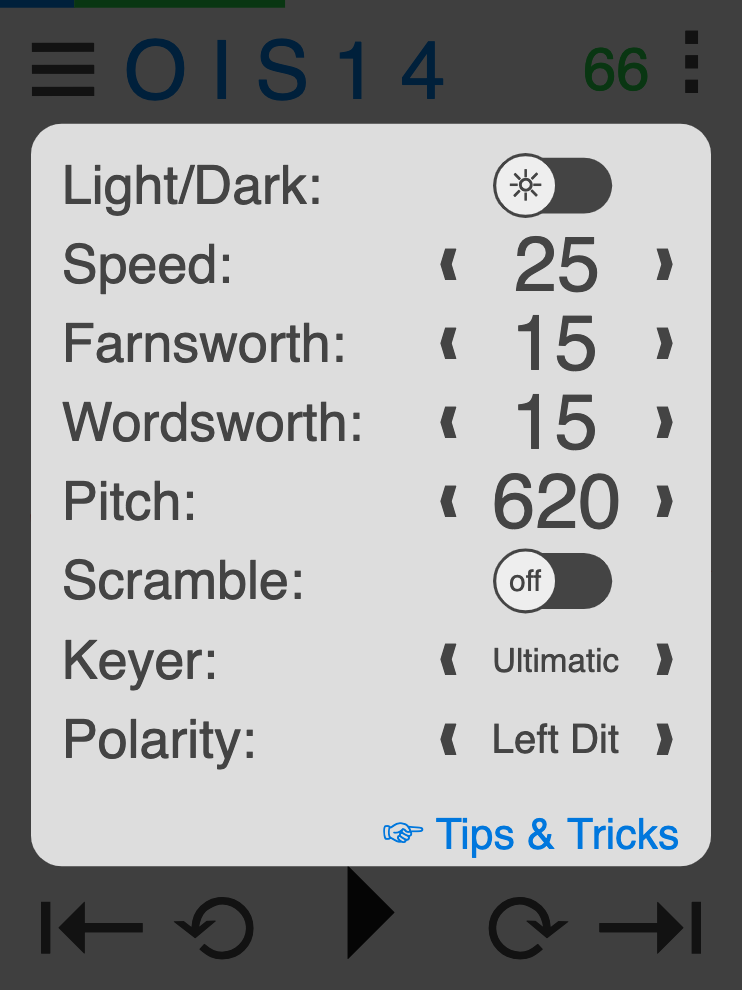
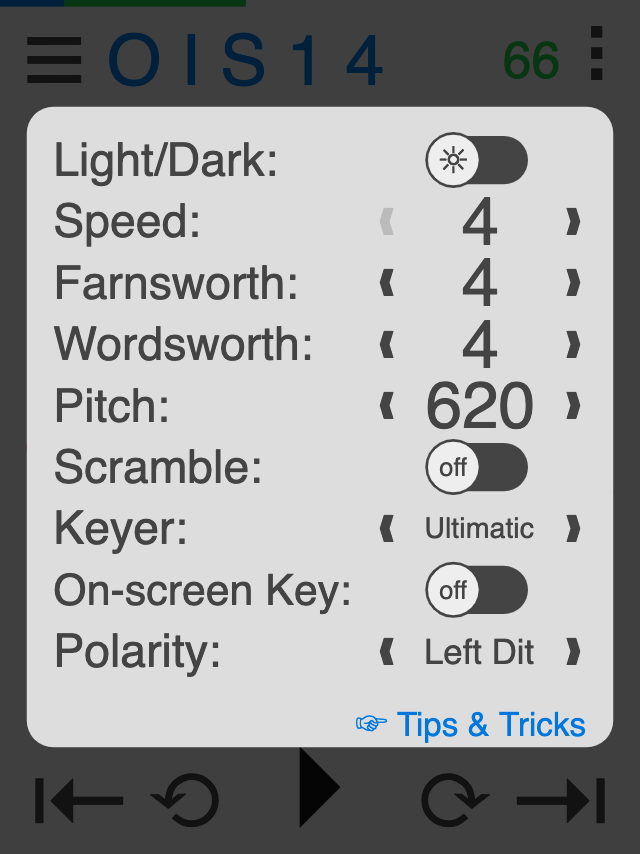
On-screen paddles

diff --git a/tx/index.html b/tx/index.html
@@ -728,10 +728,18 @@
                 localStorage.setItem('tx_polarity', polarity);
             }
 
-
             function getPolarity() {
                 return localStorage.getItem('tx_polarity') || 'ditdah';
             }
+
+            function setOnScreenKey(screenkey) {
+                localStorage.setItem('tx_screenkey', screenkey);
+            }
+
+            function getOnScreenKey() {
+                return getBoolSetting('tx_screenkey', false);
+            }
+
 
             function resizeCanvas() {
                 var ratio = devicePixelRatio;
@@ -840,12 +848,15 @@
                     w - padding - buttonSize,
                     padding, buttonSize, buttonSize,
                     'right');
+
+                var screenkey = getOnScreenKey();
+                var keyHeight = screenkey ? buttonSize * 4 : 0;
                 drawButton(
                     'prevLesson',
                     '⇤',
                     lessonNum > 0 ? subduedButtonColor : disabledButtonColor,
                     padding * 1 + buttonWidth * 0,
-                    h - padding - buttonSize,
+                    h - padding - buttonSize - keyHeight,
                     buttonWidth, buttonSize,
                     'left');
                 drawButton(
@@ -853,7 +864,7 @@
                     '⟲',
                     phraseNum > 0 ? subduedButtonColor : disabledButtonColor,
                     padding * 2 + buttonWidth * 1,
-                    h - padding - buttonSize,
+                    h - padding - buttonSize - keyHeight,
                     buttonWidth,
                     buttonSize,
                     'center');
@@ -862,7 +873,7 @@
                     '⟳',
                     phraseNum < content.lessons[lessonNum].phrases.length - 1 ? subduedButtonColor : disabledButtonColor,
                     padding * 4 + buttonWidth * 2 + buttonWidth * largeButton,
-                    h - padding - buttonSize,
+                    h - padding - buttonSize - keyHeight,
                     buttonWidth,
                     buttonSize,
                     'center');
@@ -871,7 +882,7 @@
                     '⇥',
                     lessonNum < content.lessons.length - 1 ? subduedButtonColor : disabledButtonColor,
                     padding * 5 + buttonWidth * 3 + buttonWidth * largeButton,
-                    h - padding - buttonSize,
+                    h - padding - buttonSize - keyHeight,
                     buttonWidth,
                     buttonSize,
                     'right');
@@ -881,7 +892,7 @@
                         keyedCharacter,
                         ui.keyingComplete ? (keyedCharacterError ? phraseTextColor : foregroundColor) : keyedCharacterColor,
                         padding * 2 + buttonWidth * 2,
-                        h - padding - buttonSize * largeButton,
+                        h - padding - buttonSize * largeButton - keyHeight,
                         buttonWidth * largeButton + padding * 2,
                         buttonSize * largeButton,
                         'center',
@@ -893,7 +904,7 @@
                         ui.playing ? 'II' : '▸',
                         foregroundColor,
                         padding * 3 + buttonWidth * 2,
-                        h - padding - buttonSize * largeButton,
+                        h - padding - buttonSize * largeButton - keyHeight,
                         buttonWidth * largeButton,
                         buttonSize * largeButton,
                         'center');
@@ -940,7 +951,7 @@
                 var phraseX = padding;
                 var phraseY = buttonSize + padding * 2 + progressHeight;
                 var phraseWidth = w - padding * 2;
-                var phraseHeight = h - padding * 4 - progressHeight - buttonSize - buttonSize * largeButton;
+                var phraseHeight = h - padding * 4 - progressHeight - buttonSize - buttonSize * largeButton - keyHeight;
                 var phraseIndex = randomPhrase(phraseNum, content.lessons[lessonNum].phrases.length);
                 var phrase = convertPhrase(content.lessons[lessonNum].phrases[phraseIndex]);
                 if (ui.keying) phrase = phrase.replace(/\ /g, '⎵');
@@ -979,10 +990,35 @@
                     top: phraseY - padding,
                     right: phraseWidth + padding,
                     bottom: phraseHeight + padding })
+                if (screenkey) {
+                    function drawPaddle(name, left, right) {
+                        var top = h - keyHeight + padding;
+                        fillRoundedRect(
+                            left,
+                            top,
+                            right,
+                            h - padding,
+                            padding,
+                            dialogBackgroundColor);
+                        var halfPadding = padding / w;
+                        buttons.push({
+                            name: name,
+                            left: left - halfPadding,
+                            top: top - halfPadding,
+                            right: right + halfPadding,
+                            bottom: h })
+                    }
+                    if (getKeyerMode() == 'S') {
+                        drawPaddle('leftKey', padding, w - padding);
+                    } else {
+                        drawPaddle('leftKey', padding, w / 2 - padding / 2);
+                        drawPaddle('rightKey', w / 2 + padding / 2, w - padding);
+                    }
+                }
                 if (ui.show == 'settings') {
                     ctx.fillStyle = dimColor;
                     ctx.fillRect(0, 0, w, h);
-                    var settingRows = 9;
+                    var settingRows = 10;
                     var left = padding * (w > h ? 4 : 1);
                     var right = w - padding * (w > h ? 4 : 1);
                     var top = padding * (h > w ? 4 : 1);
@@ -1120,14 +1156,16 @@
                     var keyer = getKeyerMode();
                     var keyerName = keyer == 'A' ? 'Iambic A' : keyer == 'B' ? 'Iambic B' : keyer == 'U' ? 'Ultimatic' : 'Straight';
                     drawGenericUpDownControl('Keyer:', 'keyer', keyerName, true, true, top + padding + rowHeight * 6);
+                    var screenkey = getOnScreenKey();
+                    drawSwitch('screenkey', 'On-screen Key:', screenkey ? 'on' : 'off', screenkey, top + rowHeight * 7);
                     var polarity = getPolarity() == 'ditdah' ? 'Left Dit' : 'Right Dit';
-                    drawGenericUpDownControl('Polarity:', 'polarity', polarity, true, true, top + padding + rowHeight * 7);
+                    drawGenericUpDownControl('Polarity:', 'polarity', polarity, true, true, top + padding + rowHeight * 8);
                     drawButton(
                         'help',
                         '☞ Tips & Tricks',
                         lessonTextColor,
                         left + padding,
-                        top + rowHeight * 8 + padding * 2,
+                        top + rowHeight * 9 + padding * 2,
                         right - left - padding * 2,
                         rowHeight / 2,
                         'right');
@@ -1401,6 +1439,11 @@
                                     }
                                     redraw();
                                     return;
+                                case 'screenkey':
+                                    cancelRepeat();
+                                    setOnScreenKey(!getOnScreenKey());
+                                    redraw();
+                                    return;
                                 case 'help':
                                     window.open('./help', '_blank');
                                     return;
@@ -1559,6 +1602,25 @@
                 }
             }
 
+            function hitTestOnScreenKeys(x, y, down) {
+                if (ui.show == null) {
+                    for (var b = 0; b < ui.buttons.length; b++) {
+                        var button = ui.buttons[b];
+                        if (x >= button.left && x <= button.right && y >= button.top && y <= button.bottom) {
+                            switch (button.name) {
+                                case 'leftKey':
+                                    if (!ui.playing) debouncerLeft.key(down);
+                                    return true;
+                                case 'rightKey':
+                                    if (!ui.playing) debouncerRight.key(down);
+                                    return true;
+                            }
+                        }
+                    }
+                }
+                return false;
+            }
+
             var noSleep;
             onload = function() {
                 noSleep = new NoSleep();
@@ -1589,12 +1651,10 @@
                     noTouch = false;
                     if (!firstPress) {
                         e.preventDefault();
-                        //if (manuallyEnableAudio) {
-                        //    playDing();
-                        //    return;
-                        //}
                         var p = e.touches[0];
-                        repeatTouch(p.pageX * ratio, p.pageY * ratio);
+                        var x = p.pageX * ratio;
+                        var y = p.pageY * ratio;
+                        if (!hitTestOnScreenKeys(x, y, true)) repeatTouch(x, y);
                     }
                 };
                 canvas.onmousedown = function(e) {
@@ -1605,23 +1665,27 @@
                     var y = e.y * ratio;
                     if (firstPress) {
                         firstPress = false;
-                        //var clearDialogOnly = manuallyEnableAudio;
                         say('');
                         audio();
-                        //if (clearDialogOnly) {
-                        //    playDing();
-                        //    return;
-                        //}
-                        repeatTouch(x, y);
+                        if (!hitTestOnScreenKeys(x, y, true)) repeatTouch(x, y);
                         return;
                     }
                     if (noTouch)
                     {
-                        repeatTouch(x, y);
+                        if (!hitTestOnScreenKeys(x, y, true)) repeatTouch(x, y);
                     }
                 }
-                canvas.ontouchend = function(e) { cancelRepeat(); };
-                canvas.onmouseup = function(e) { cancelRepeat(); }
+                canvas.ontouchend = function(e) {
+                    var p = e.changedTouches[0];
+                    var x = p.pageX * ratio;
+                    var y = p.pageY * ratio;
+                    if (!hitTestOnScreenKeys(x, y, false)) cancelRepeat();
+                };
+                canvas.onmouseup = function(e) {
+                    var x = e.x * ratio;
+                    var y = e.y * ratio;
+                    if (!hitTestOnScreenKeys(x, y, false)) cancelRepeat();
+                }
                 resizeRedrawCanvas();
                 setDarkMode(getDarkMode());
                 setSpeed(getSpeed());
@@ -1739,6 +1803,7 @@
         - 'rx_pitch_default'
         - 'rx_hide_phrase'
         - 'tx_mode' ('A', 'B', 'U')
+        - 'tx_screenkey'
         - 'tx_polarity' ('ditdah', 'dahdit')
         - 'tx_buffer' (int size)
         - 'scramble'
